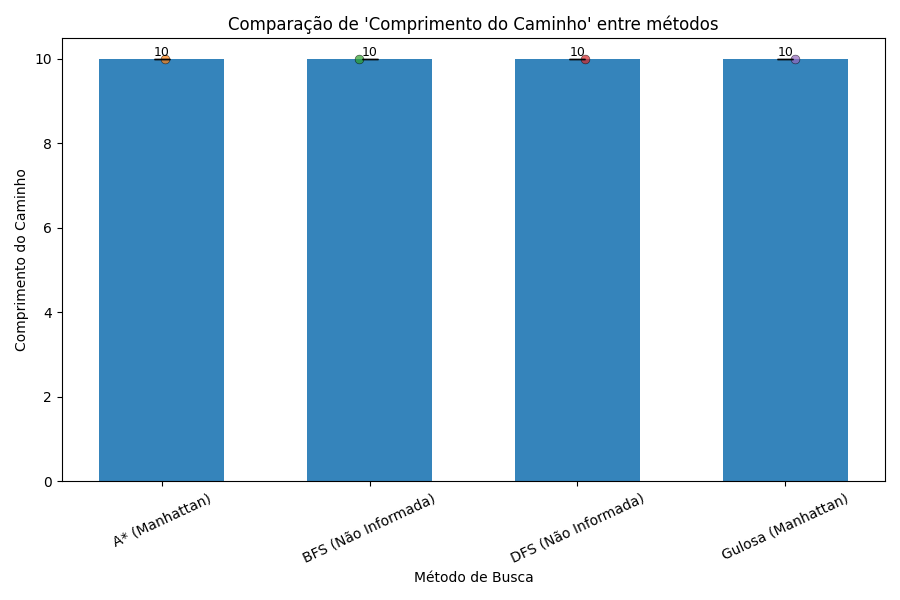
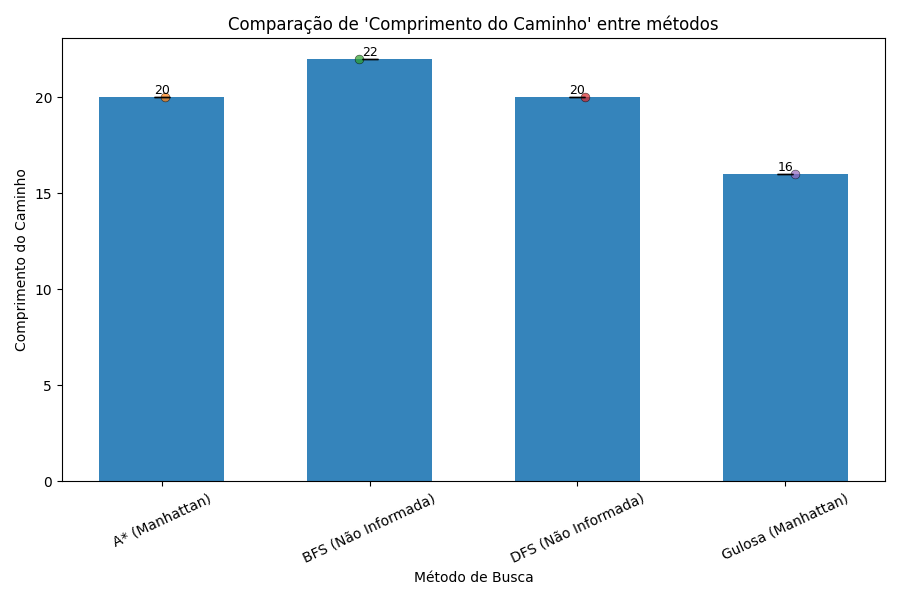
readme, wrong path print and some comments

diff --git a/src/search.py b/src/search.py
@@ -37,18 +37,18 @@ class Node:
         # utilizado pela heapq; compara por f_score
         return self.f_score < other.f_score
 
-# Tipo do retorno: (path_actions, cost, max_memory, nodes_expanded, solution_found)
-SearchResult = Tuple[List[str], float, int, int, bool]
+# Tipo do retorno: (path_transitions, cost, max_memory, nodes_expanded, solution_found)
+SearchResult = Tuple[List[Tuple[Pos, Pos]], float, int, int, bool]
 
-def reconstruct_path(node: Node) -> List[str]:
-    """Reconstrói a sequência de ações do nó final até o início (lista de ações)."""
-    path_actions: List[str] = []
+def reconstruct_path(node: Node) -> List[Tuple[Pos, Pos]]:
+    """Reconstrói o caminho como uma lista de transições de estado (de, para)."""
+    path_transitions: List[Tuple[Pos, Pos]] = []
     current = node
     while current.parent is not None:
-        path_actions.append(current.action)
+        path_transitions.append((current.parent.state, current.state))
         current = current.parent
-    path_actions.reverse()
-    return path_actions
+    path_transitions.reverse()
+    return path_transitions
 
 # --- Helpers para compatibilidade com o Maze atual ---
 def _get_start_goal(maze: Maze) -> Tuple[Optional[Pos], Optional[Pos]]:
@@ -97,22 +97,26 @@ def bfs(maze: Maze) -> SearchResult:
     explored: Set[Pos] = {start}
     nodes_expanded = 0
     max_memory = 1
+    exploration_path: List[Tuple[Pos, Pos]] = []
 
     while frontier:
         current_node = frontier.popleft()
         nodes_expanded += 1
+        
         if maze.goal_test(current_node.state):
-            path = reconstruct_path(current_node)
-            return (path, current_node.path_cost, max_memory, nodes_expanded, True)
+            # Retorna o caminho de exploração completo em vez do caminho da solução
+            return (exploration_path, current_node.path_cost, max_memory, nodes_expanded, True)
+
         for action in maze.actions(current_node.state):
             next_state = maze.result(current_node.state, action)
             if next_state not in explored:
+                exploration_path.append((current_node.state, next_state))
                 cost = maze.step_cost(current_node.state, action, next_state)
                 new_node = Node(next_state, current_node, action, current_node.path_cost + cost)
                 explored.add(next_state)
                 frontier.append(new_node)
                 max_memory = max(max_memory, len(frontier) + len(explored))
-    return ([], 0.0, max_memory, nodes_expanded, False)
+    return (exploration_path, 0.0, max_memory, nodes_expanded, False)
 
 def dfs(maze: Maze) -> SearchResult:
     """Busca em Profundidade (DFS)."""
@@ -126,23 +130,27 @@ def dfs(maze: Maze) -> SearchResult:
     explored: Set[Pos] = {start}
     nodes_expanded = 0
     max_memory = 1
+    exploration_path: List[Tuple[Pos, Pos]] = []
 
     while frontier:
         current_node = frontier.pop()
         nodes_expanded += 1
+
         if maze.goal_test(current_node.state):
-            path = reconstruct_path(current_node)
-            return (path, current_node.path_cost, max_memory, nodes_expanded, True)
+            # Retorna o caminho de exploração completo em vez do caminho da solução
+            return (exploration_path, current_node.path_cost, max_memory, nodes_expanded, True)
+
         # expand in reversed order to keep consistent LIFO behaviour
         for action in reversed(maze.actions(current_node.state)):
             next_state = maze.result(current_node.state, action)
             if next_state not in explored:
+                exploration_path.append((current_node.state, next_state))
                 cost = maze.step_cost(current_node.state, action, next_state)
                 new_node = Node(next_state, current_node, action, current_node.path_cost + cost)
                 explored.add(next_state)
                 frontier.append(new_node)
                 max_memory = max(max_memory, len(frontier) + len(explored))
-    return ([], 0.0, max_memory, nodes_expanded, False)
+    return (exploration_path, 0.0, max_memory, nodes_expanded, False)
 
 # ===
 # Algoritmos de Busca Informada (Gulosa e A*)
@@ -165,13 +173,16 @@ def greedy_search(maze: Maze, heuristic_fn: HeuristicFn) -> SearchResult:
     explored: Dict[Pos, float] = {start: start_node.f_score}
     nodes_expanded = 0
     max_memory = 1
+    exploration_path: List[Tuple[Pos, Pos]] = []
 
     while frontier:
         _, _, current_node = heapq.heappop(frontier)
         nodes_expanded += 1
+
         if maze.goal_test(current_node.state):
-            path = reconstruct_path(current_node)
-            return (path, current_node.path_cost, max_memory, nodes_expanded, True)
+            # Retorna o caminho de exploração completo em vez do caminho da solução
+            return (exploration_path, current_node.path_cost, max_memory, nodes_expanded, True)
+
         for action in maze.actions(current_node.state):
             next_state = maze.result(current_node.state, action)
             cost = maze.step_cost(current_node.state, action, next_state)
@@ -179,11 +190,12 @@ def greedy_search(maze: Maze, heuristic_fn: HeuristicFn) -> SearchResult:
             new_node = Node(next_state, current_node, action, current_node.path_cost + cost, h_next)
             new_node.f_score = h_next
             if next_state not in explored or new_node.f_score < explored[next_state]:
+                exploration_path.append((current_node.state, next_state))
                 explored[next_state] = new_node.f_score
                 heapq.heappush(frontier, (new_node.f_score, counter, new_node))
                 counter += 1
                 max_memory = max(max_memory, len(frontier) + len(explored))
-    return ([], 0.0, max_memory, nodes_expanded, False)
+    return (exploration_path, 0.0, max_memory, nodes_expanded, False)
 
 
 def a_star_search(maze: Maze, heuristic_fn: HeuristicFn) -> SearchResult:
@@ -201,22 +213,30 @@ def a_star_search(maze: Maze, heuristic_fn: HeuristicFn) -> SearchResult:
     g_scores: Dict[Pos, float] = {start: 0.0}
     nodes_expanded = 0
     max_memory = 1
+    exploration_path: List[Tuple[Pos, Pos]] = []
 
     while frontier:
         _, _, current_node = heapq.heappop(frontier)
-        if maze.goal_test(current_node.state):
-            path = reconstruct_path(current_node)
-            return (path, current_node.path_cost, max_memory, nodes_expanded, True)
+
+        if current_node.path_cost > g_scores.get(current_node.state, float('inf')):
+            continue
+        
         nodes_expanded += 1
+
+        if maze.goal_test(current_node.state):
+            # Retorna o caminho de exploração completo em vez do caminho da solução
+            return (exploration_path, current_node.path_cost, max_memory, nodes_expanded, True)
+        
         for action in maze.actions(current_node.state):
             next_state = maze.result(current_node.state, action)
             cost = maze.step_cost(current_node.state, action, next_state)
             tentative_g = current_node.path_cost + cost
-            if next_state not in g_scores or tentative_g < g_scores[next_state]:
+            if tentative_g < g_scores.get(next_state, float('inf')):
+                exploration_path.append((current_node.state, next_state))
                 h_next = heuristic_fn(next_state, goal)
                 new_node = Node(next_state, current_node, action, tentative_g, h_next)
                 g_scores[next_state] = tentative_g
                 heapq.heappush(frontier, (new_node.f_score, counter, new_node))
                 counter += 1
                 max_memory = max(max_memory, len(frontier) + len(g_scores))
-    return ([], 0.0, max_memory, nodes_expanded, False)
+    return (exploration_path, 0.0, max_memory, nodes_expanded, False)

diff --git a/main.py b/main.py
@@ -10,7 +10,7 @@ from src.maze import Maze
 from src.heuristics import h_manhattan
 from src.search import bfs, dfs, greedy_search, a_star_search, set_seed
 
-SearchResult = Tuple[List[str], float, int, int, bool]
+SearchResult = Tuple[List[Tuple[Any, Any]], float, int, int, bool]
 
 TESTS = [
     ("BFS (Não Informada)", bfs, None),
@@ -32,8 +32,8 @@ def run_test(name: str, search_func: Callable[[Maze], SearchResult], maze: Maze)
         is_complete = solution_found
         is_optimal = solution_found and (abs(cost - COSTO_MINIMO_OTIMO) < 1e-6)
 
-        # Formata caminho como string simples para saída (ações separadas por " -> ")
-        caminho_str = " -> ".join(path) if path else "N/A"
+        # Formata caminho como string simples para saída (transições de posição)
+        caminho_str = " -> ".join([f"{p[0]}-{p[1]}" for p in path]) if path else "N/A"
         custo_str = f"{cost:.2f}" if solution_found else "N/A"
 
         return {
@@ -46,22 +46,26 @@ def run_test(name: str, search_func: Callable[[Maze], SearchResult], maze: Maze)
             "Optimalidade": "SIM" if is_optimal else "NÃO",
             # campos extra para o arquivo detalhado / análise
             "Caminho": caminho_str,
-            "_raw_cost": cost if solution_found else None,
+            "_raw_cost": cost if solution_found else float('nan'),
             "_found": solution_found,
             "_time": exec_time,               # campo numérico para plotagem
-            "_path_length": len(path) if path else None
+            "_path_length": len(path) if path else 0
         }
     except Exception as e:
         return {
             "Algoritmo": name,
             "Tempo (s)": "ERRO",
-            "Max Memória (elementos)": "ERRO",
-            "Nós Expandidos": "ERRO",
+            "Max Memória (elementos)": float('nan'),
+            "Nós Expandidos": float('nan'),
             "Custo Solução": "ERRO",
             "Completude": "ERRO",
             "Optimalidade": "ERRO",
             "Caminho": "ERRO",
-            "_error": str(e)
+            "_error": str(e),
+            # Adiciona campos numéricos como NaN para evitar erros de plotagem
+            "_raw_cost": float('nan'),
+            "_time": float('nan'),
+            "_path_length": float('nan'),
         }
 
 def print_results(results: List[Dict[str, Any]], output_file: str = "medicoes_desempenho.txt"):

diff --git a/README.md b/README.md
@@ -1,2 +1,54 @@
 # MAZE-SEARCH
- Busca em Labirinto
+
+Este projeto implementa e compara o desempenho de diferentes algoritmos de busca para encontrar um caminho em um labirinto. Os algoritmos implementados incluem buscas não informadas (BFS, DFS) e buscas informadas (Gulosa, A*).
+
+## Estrutura do Projeto
+
+-   `main.py`: O script principal para executar os testes, gerar relatórios e gráficos.
+-   `data/labirinto.txt`: O arquivo que define a estrutura do labirinto, incluindo paredes, início e fim.
+-   `src/`: Contém os módulos principais da lógica de busca.
+    -   `search.py`: Implementação dos algoritmos de busca (BFS, DFS, Gulosa, A*).
+    -   `maze.py`: Lógica para carregar e representar o labirinto.
+    -   `heuristics.py`: Funções de heurística (ex: Distância de Manhattan).
+-   `medicoes_desempenho.txt`: Arquivo de saída gerado com os resultados detalhados dos testes.
+-   `bench_results/`: Diretório onde os gráficos de desempenho são salvos.
+
+## Pré-requisitos
+
+Para executar este projeto, você precisará do Python 3 e das seguintes bibliotecas:
+
+-   pandas
+-   matplotlib
+-   numpy
+
+Você pode instalá-las com o pip:
+
+```bash
+pip install pandas matplotlib numpy
+```
+
+## Como Executar
+
+Para rodar os testes e gerar o relatório, execute o script `main.py` a partir da raiz do projeto:
+
+```bash
+python main.py
+```
+
+O script irá:
+1.  Carregar o labirinto a partir de `data/labirinto.txt`.
+2.  Executar cada um dos algoritmos de busca definidos.
+3.  Imprimir uma tabela de resumo e os caminhos detalhados no console.
+4.  Salvar essa mesma saída no arquivo `medicoes_desempenho.txt`.
+5.  Gerar gráficos de barras comparando as métricas de desempenho (tempo, memória, nós expandidos) e salvá-los como imagens `.png` no diretório `bench_results/`.
+
+## Parâmetros e Reprodução
+
+Para garantir a reprodutibilidade dos resultados, os seguintes parâmetros são fixados em `main.py`:
+
+-   **Semente Aleatória**: A semente para geração de números pseudo-aleatórios é fixada em `42` através da função `set_seed(42)`. Isso é importante para algoritmos que possam ter desempates aleatórios.
+-   **Labirinto**: O labirinto usado é sempre o `data/labirinto.txt`.
+-   **Custo Ótimo de Referência**: A variável `COSTO_MINIMO_OTIMO` em `main.py` é usada para verificar a optimalidade das soluções encontradas. O valor está definido como `5.0`.
+-   **Algoritmos**: Os algoritmos a serem testados estão definidos na lista `TESTS` em `main.py`.
+
+Para reproduzir exatamente as tabelas e gráficos do relatório, basta executar o comando `python main.py` novamente. Os arquivos `medicoes_desempenho.txt` e as imagens em `bench_results/` serão sobrescritos com os novos resultados, que devem ser idênticos aos anteriores devido aos parâmetros fixos.
